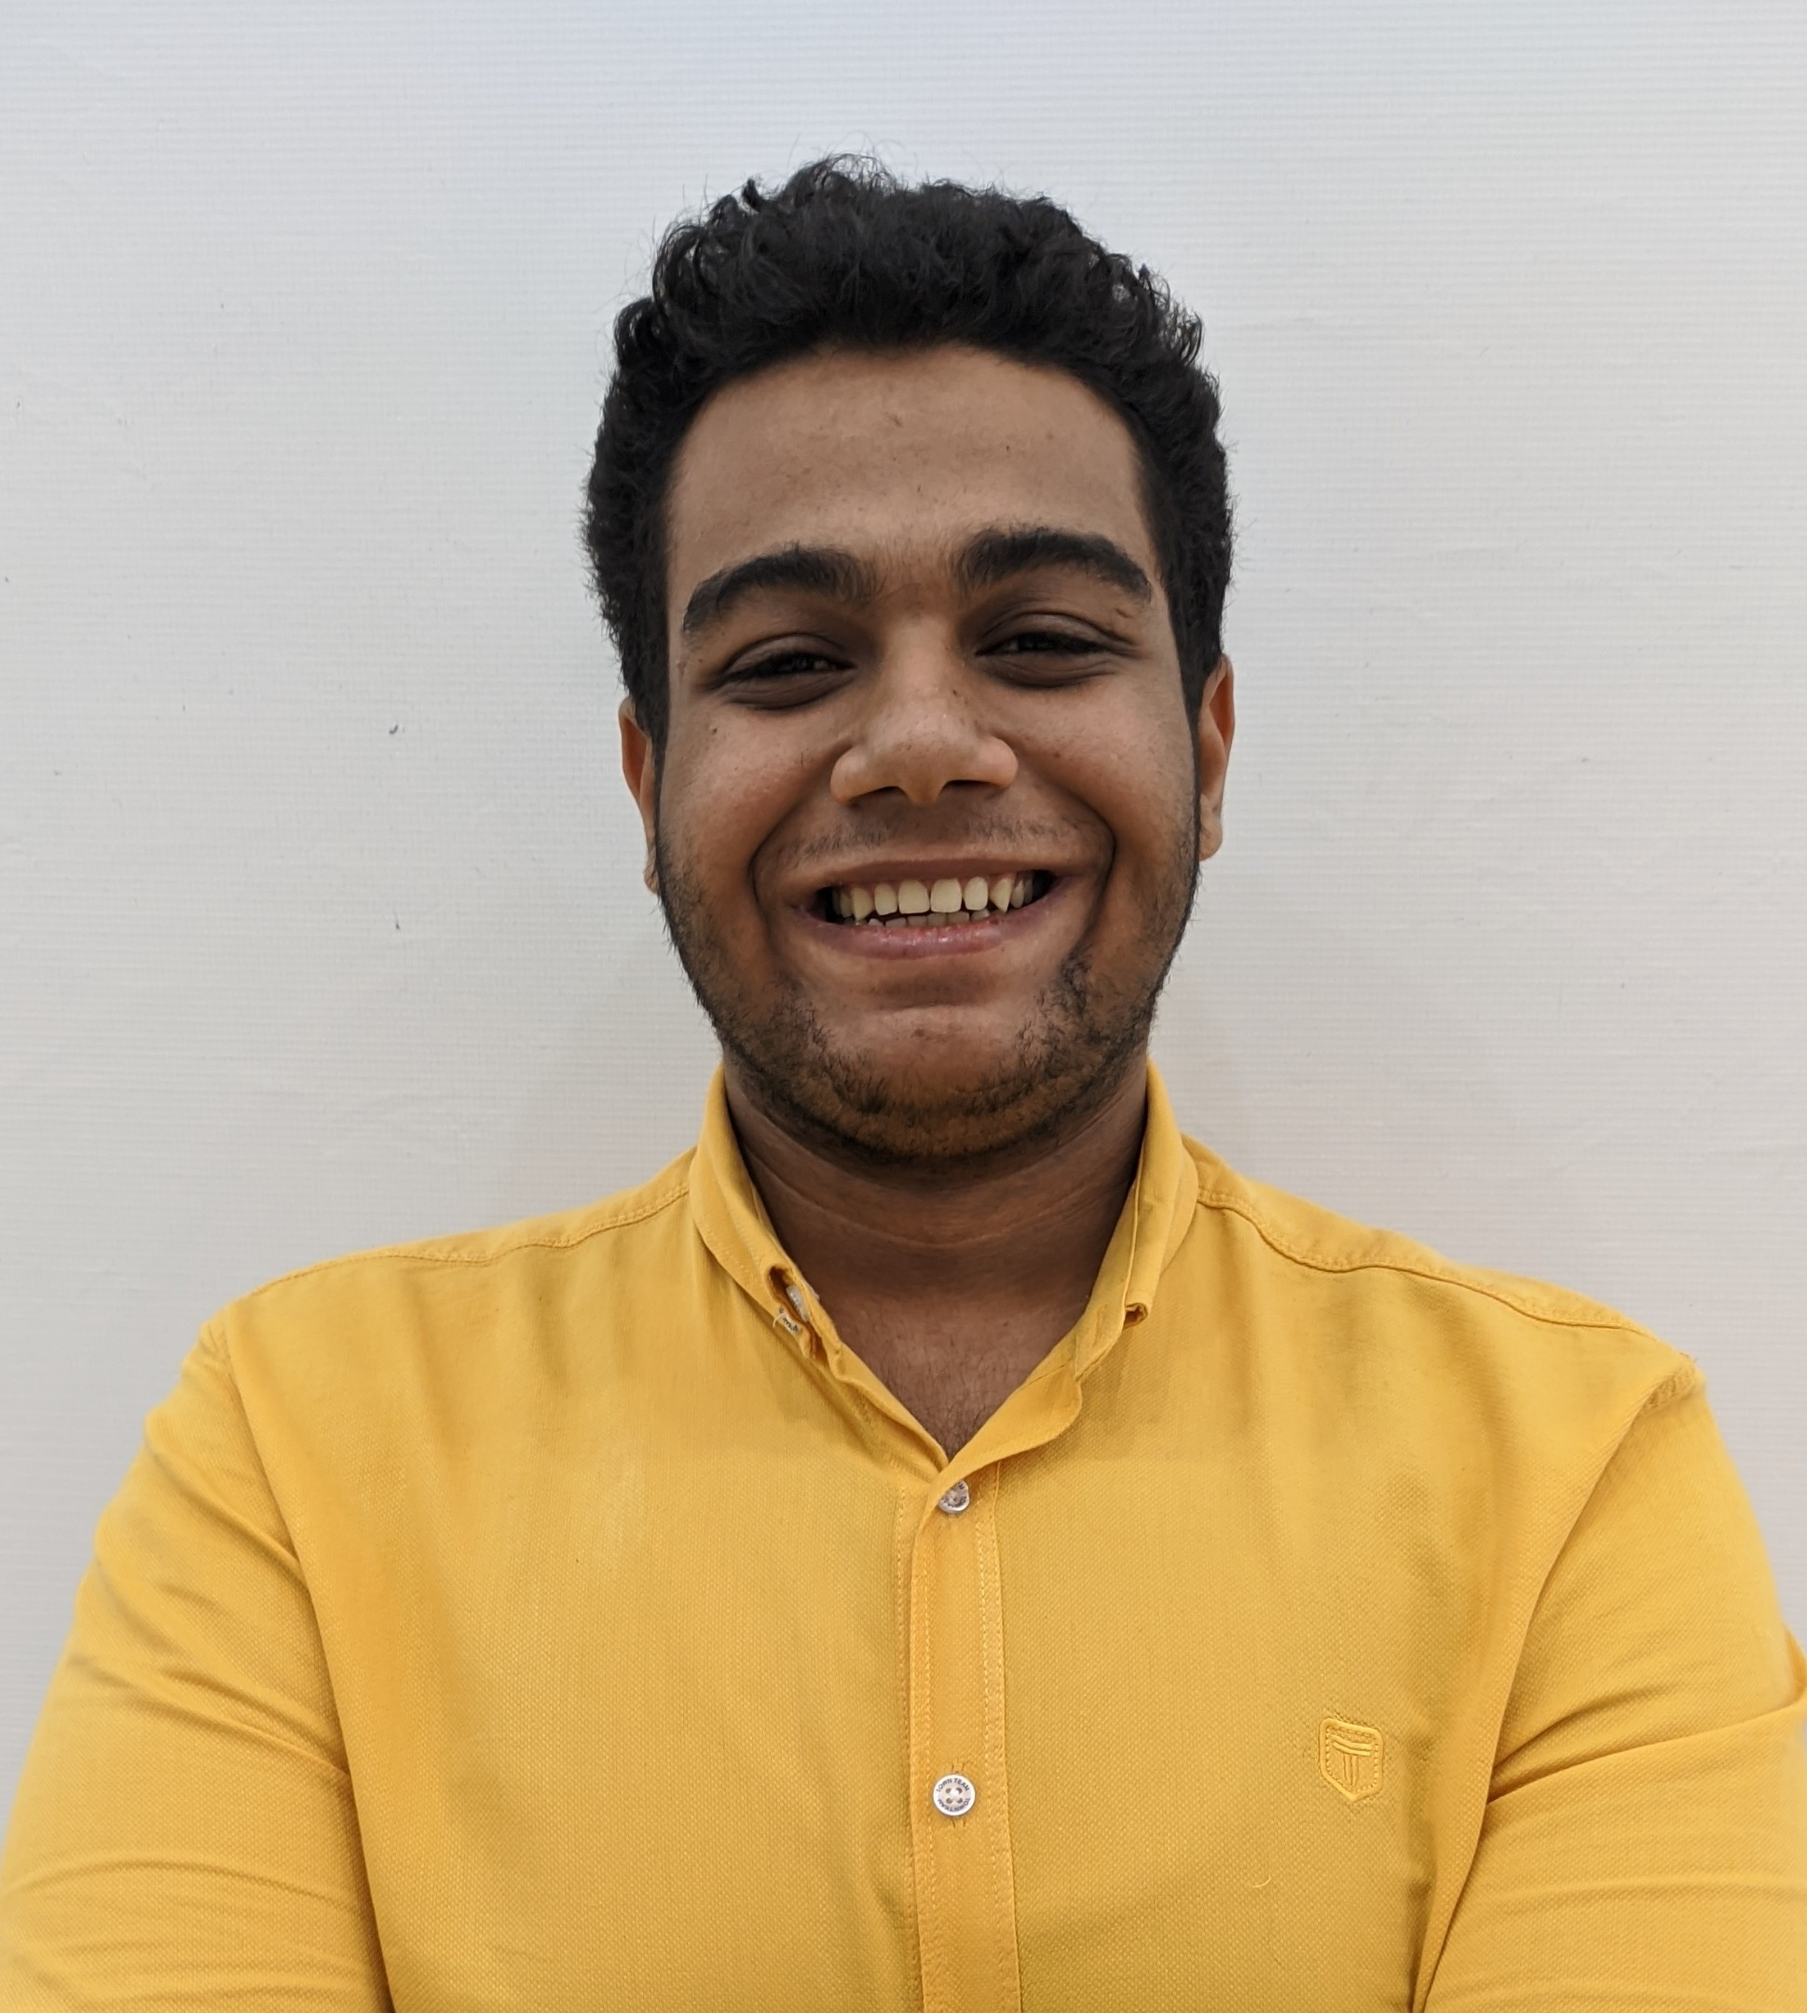
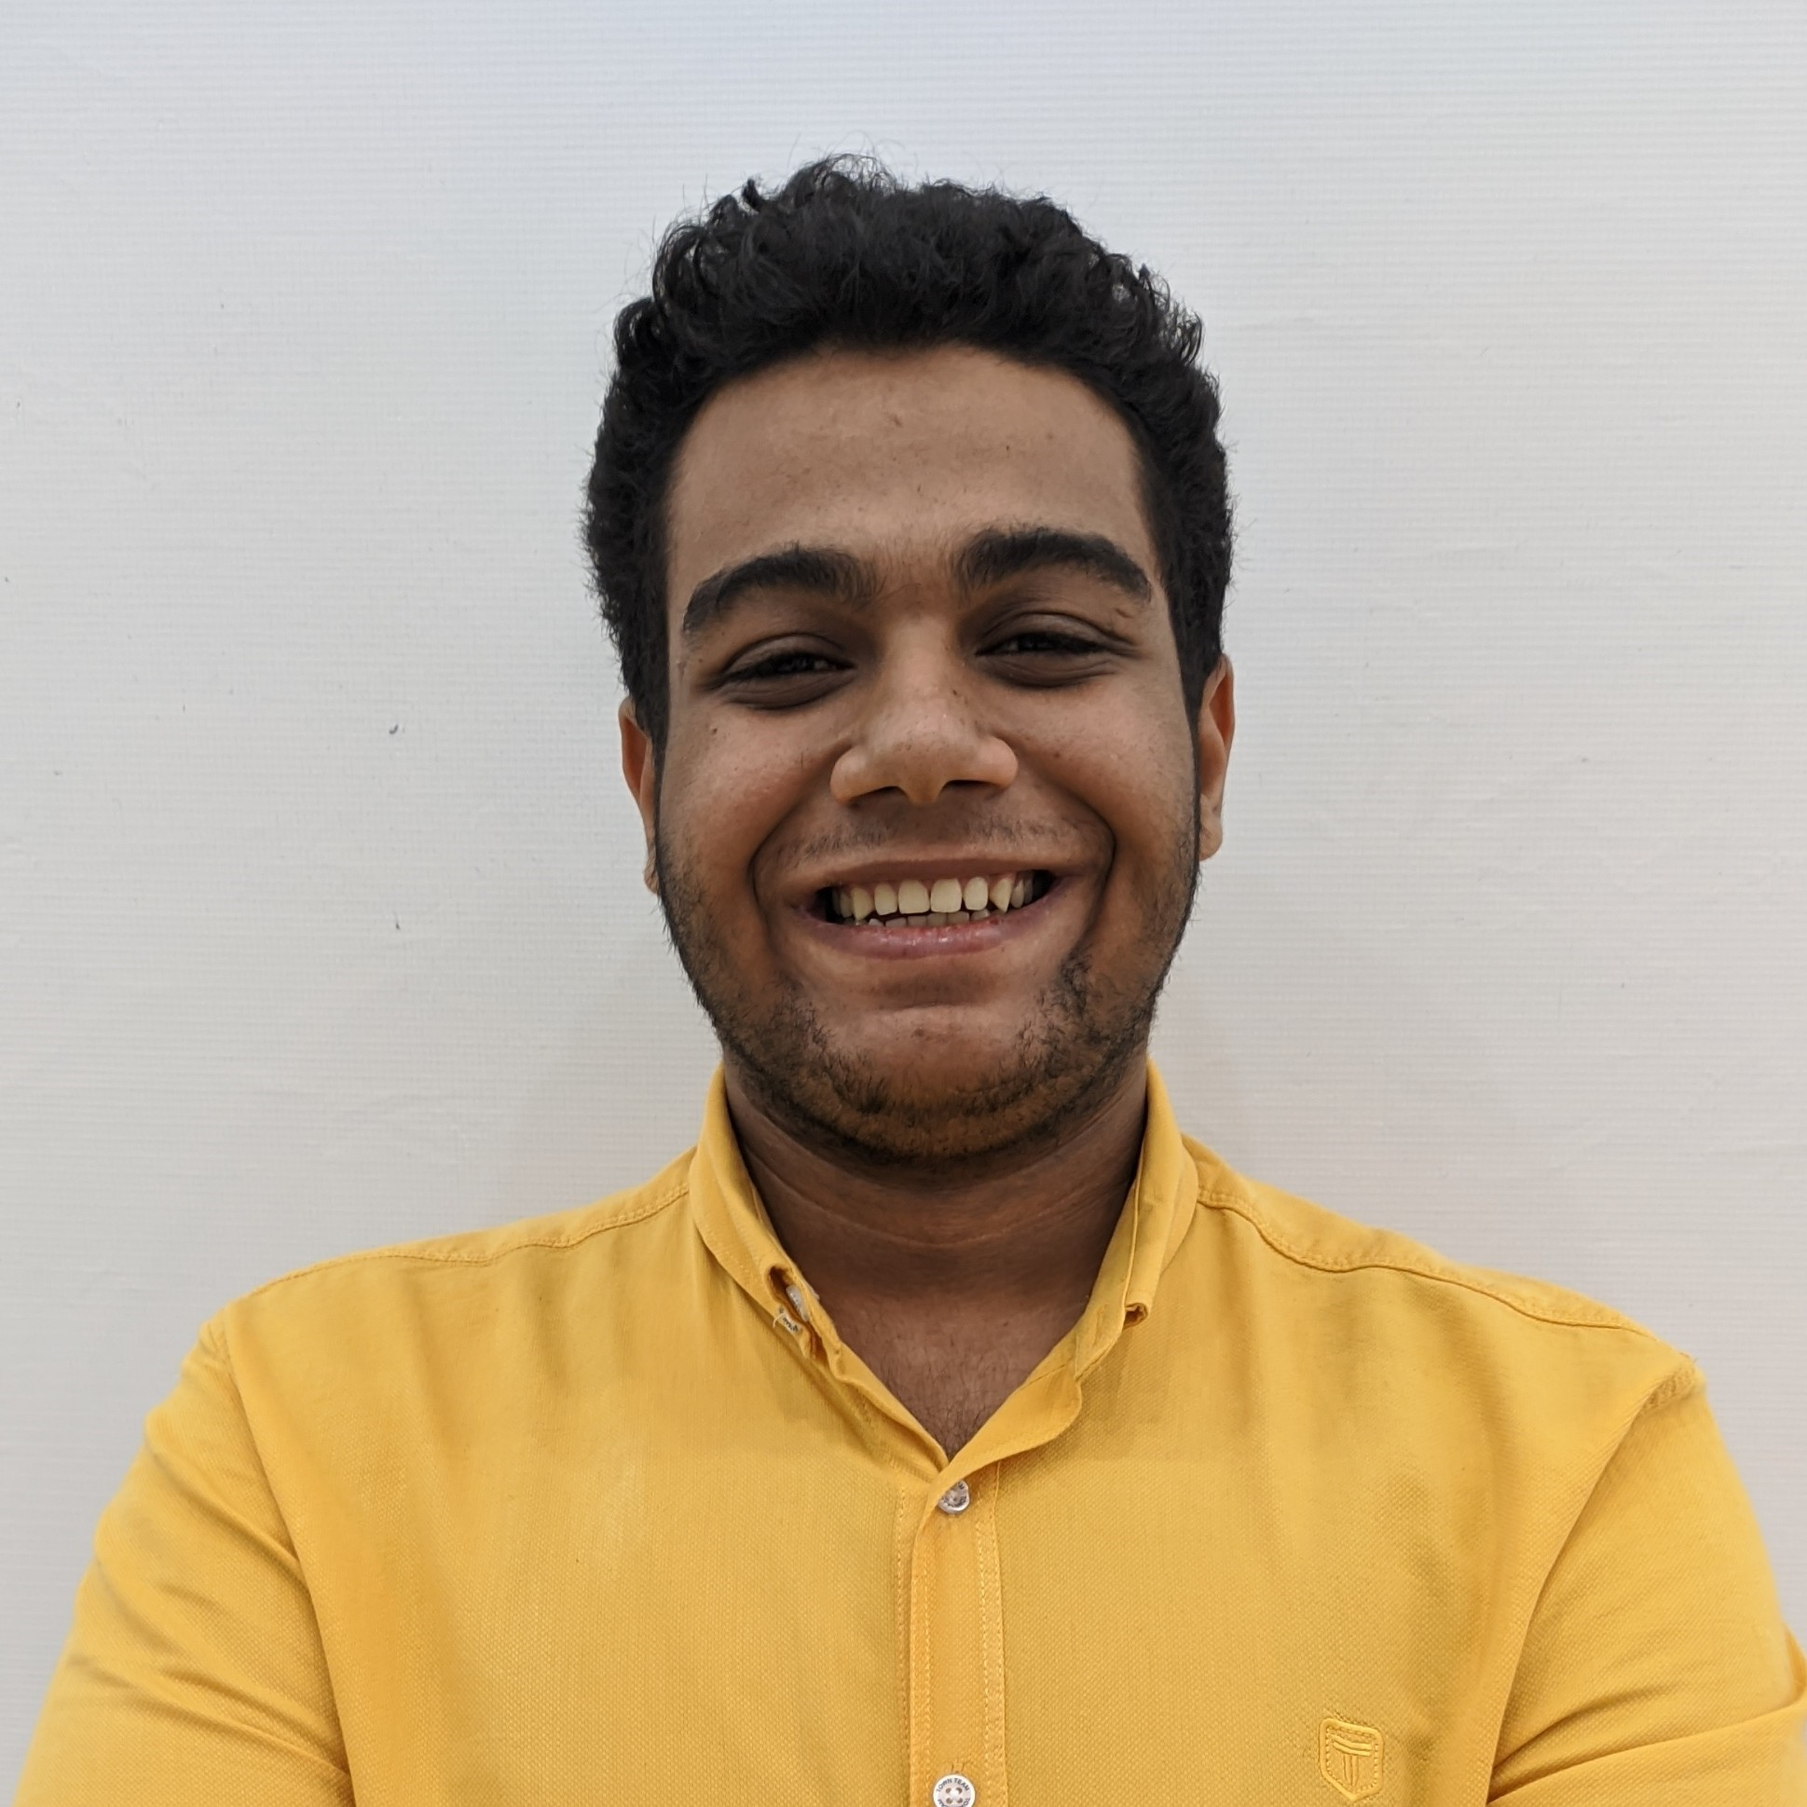
adjusted the image

Changed region(s): [[0.0, 0.0619, 1.0, 1.0], [0.2785, 0.8974, 0.3094, 0.9283], [0.2785, 0.7117, 0.3094, 0.7427]]

diff --git a/index.html b/index.html
@@ -466,8 +466,8 @@
             <div style="margin: 70px auto 0 auto" class="col-md-4">
               <div class="card card-profile card-plain">
                 <div class="card-avatar">
-                  <a href="#">
-                    <img src="myImage.jpg" alt="..." />
+                  <a style="aspect-ratio: 1 / 1;" href="#">
+                    <img style="aspect-ratio: 1 / 1;" src="myImage.jpg" alt="..." />
                   </a>
                 </div>
                 <div class="card-body">
